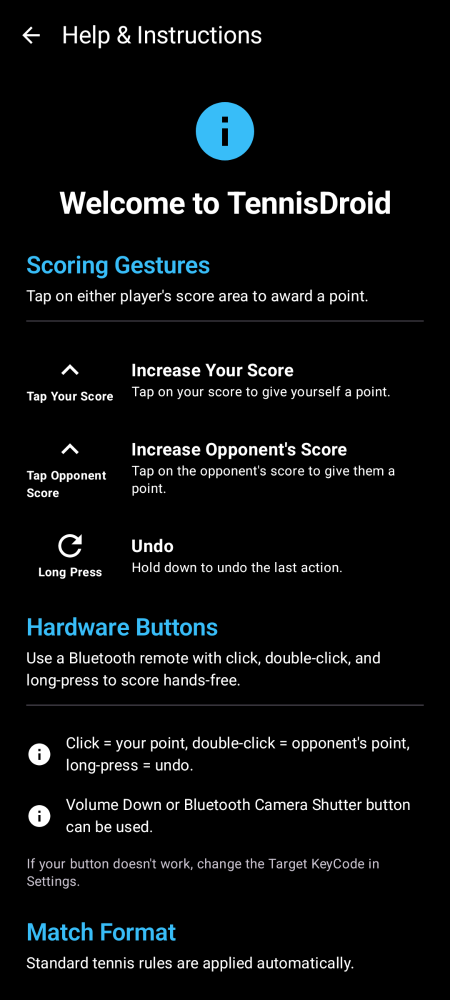
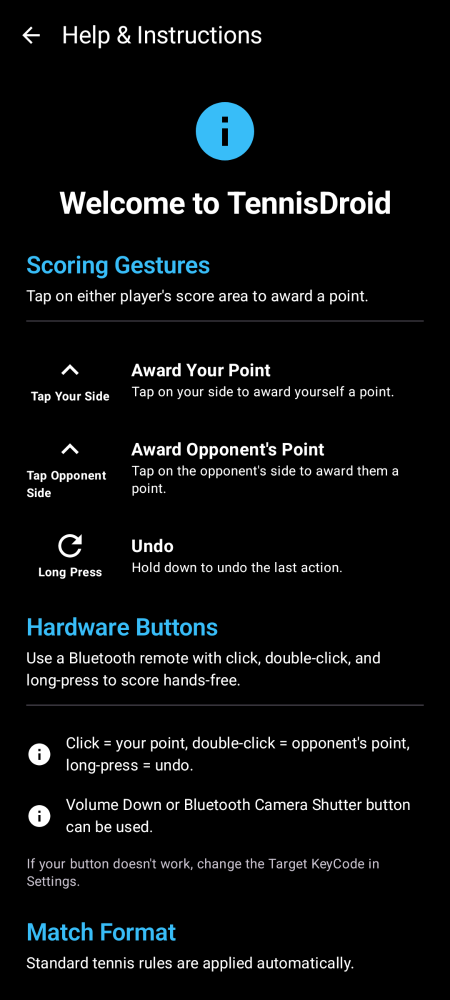
Rework watch help screen

diff --git a/wear/src/main/java/com/nuttyknot/tennisscoretracker/wear/ui/WearScoreScreen.kt b/wear/src/main/java/com/nuttyknot/tennisscoretracker/wear/ui/WearScoreScreen.kt
@@ -9,6 +9,7 @@ import androidx.compose.foundation.interaction.MutableInteractionSource
 import androidx.compose.foundation.layout.Arrangement
 import androidx.compose.foundation.layout.Box
 import androidx.compose.foundation.layout.Column
+import androidx.compose.foundation.layout.IntrinsicSize
 import androidx.compose.foundation.layout.Row
 import androidx.compose.foundation.layout.Spacer
 import androidx.compose.foundation.layout.fillMaxHeight
@@ -18,6 +19,7 @@ import androidx.compose.foundation.layout.height
 import androidx.compose.foundation.layout.padding
 import androidx.compose.foundation.layout.size
 import androidx.compose.foundation.shape.CircleShape
+import androidx.compose.foundation.shape.RoundedCornerShape
 import androidx.compose.runtime.Composable
 import androidx.compose.runtime.remember
 import androidx.compose.ui.Alignment
@@ -77,7 +79,13 @@ fun WearScoreScreen(
             }
 
             if (showHelp) {
-                WearHelpOverlay(onDismiss = onDismissHelp)
+                val userColor = scoreDisplay.primaryColorArgb?.let { Color(it) } ?: DEFAULT_PRIMARY_COLOR
+                val opponentColor = scoreDisplay.secondaryColorArgb?.let { Color(it) } ?: DEFAULT_SECONDARY_COLOR
+                WearHelpOverlay(
+                    userColor = userColor,
+                    opponentColor = opponentColor,
+                    onDismiss = onDismissHelp,
+                )
             }
         }
     }
@@ -373,12 +381,16 @@ private fun PlayerLabel(
 
 @Suppress("FunctionName")
 @Composable
-private fun WearHelpOverlay(onDismiss: () -> Unit) {
+private fun WearHelpOverlay(
+    userColor: Color,
+    opponentColor: Color,
+    onDismiss: () -> Unit,
+) {
     Box(
         modifier =
             Modifier
                 .fillMaxSize()
-                .background(Color.Black.copy(alpha = 0.85f))
+                .background(Color.Black.copy(alpha = 0.93f))
                 .clickable(
                     indication = null,
                     interactionSource = remember { MutableInteractionSource() },
@@ -398,18 +410,89 @@ private fun WearHelpOverlay(onDismiss: () -> Unit) {
                 textAlign = TextAlign.Center,
             )
             Spacer(modifier = Modifier.height(8.dp))
+            HelpTapZones(userColor, opponentColor)
+            Spacer(modifier = Modifier.height(8.dp))
             Text(
-                text = "Tap left = your point\nTap right = opponent's point\nLong press = undo",
-                fontSize = LABEL_FONT_SIZE,
-                color = Color.White.copy(alpha = 0.8f),
+                text = "Long press = undo",
+                fontSize = 12.sp,
+                color = Color.White.copy(alpha = 0.7f),
                 textAlign = TextAlign.Center,
             )
             Spacer(modifier = Modifier.height(8.dp))
             Text(
                 text = "Tap to dismiss",
                 fontSize = LABEL_FONT_SIZE,
-                color = Color.White.copy(alpha = 0.5f),
+                color = Color.White.copy(alpha = 0.4f),
                 textAlign = TextAlign.Center,
+            )
+        }
+    }
+}
+
+@Suppress("FunctionName", "LongMethod")
+@Composable
+private fun HelpTapZones(
+    userColor: Color,
+    opponentColor: Color,
+) {
+    Row(
+        modifier = Modifier.fillMaxWidth().height(IntrinsicSize.Min),
+        horizontalArrangement = Arrangement.spacedBy(4.dp),
+    ) {
+        Column(
+            horizontalAlignment = Alignment.CenterHorizontally,
+            modifier =
+                Modifier
+                    .weight(1f)
+                    .fillMaxHeight()
+                    .background(
+                        color = userColor.copy(alpha = 0.15f),
+                        shape = RoundedCornerShape(8.dp),
+                    )
+                    .padding(vertical = 6.dp, horizontal = 4.dp),
+        ) {
+            Text(
+                text = "← Tap",
+                fontSize = 12.sp,
+                fontWeight = FontWeight.Bold,
+                color = userColor,
+                textAlign = TextAlign.Center,
+                modifier = Modifier.fillMaxWidth(),
+            )
+            Text(
+                text = "Your point",
+                fontSize = 12.sp,
+                color = userColor,
+                textAlign = TextAlign.Center,
+                modifier = Modifier.fillMaxWidth(),
+            )
+        }
+        Column(
+            horizontalAlignment = Alignment.CenterHorizontally,
+            modifier =
+                Modifier
+                    .weight(1f)
+                    .fillMaxHeight()
+                    .background(
+                        color = opponentColor.copy(alpha = 0.15f),
+                        shape = RoundedCornerShape(8.dp),
+                    )
+                    .padding(vertical = 6.dp, horizontal = 4.dp),
+        ) {
+            Text(
+                text = "Tap →",
+                fontSize = 12.sp,
+                fontWeight = FontWeight.Bold,
+                color = opponentColor,
+                textAlign = TextAlign.Center,
+                modifier = Modifier.fillMaxWidth(),
+            )
+            Text(
+                text = "Opponent's point",
+                fontSize = 12.sp,
+                color = opponentColor,
+                textAlign = TextAlign.Center,
+                modifier = Modifier.fillMaxWidth(),
             )
         }
     }

diff --git a/app/src/main/java/com/nuttyknot/tennisscoretracker/ui/help/HelpScreen.kt b/app/src/main/java/com/nuttyknot/tennisscoretracker/ui/help/HelpScreen.kt
@@ -121,16 +121,16 @@ private fun ScoringGestures() {
 
     GestureItem(
         icon = Icons.Default.KeyboardArrowUp,
-        label = "Tap Your Score",
-        action = "Increase Your Score",
-        description = "Tap on your score to give yourself a point.",
+        label = "Tap Your Side",
+        action = "Award Your Point",
+        description = "Tap on your side to award yourself a point.",
     )
 
     GestureItem(
         icon = Icons.Default.KeyboardArrowUp,
-        label = "Tap Opponent Score",
-        action = "Increase Opponent's Score",
-        description = "Tap on the opponent's score to give them a point.",
+        label = "Tap Opponent Side",
+        action = "Award Opponent's Point",
+        description = "Tap on the opponent's side to award them a point.",
     )
 
     GestureItem(
